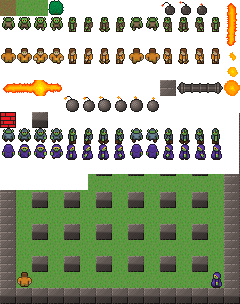
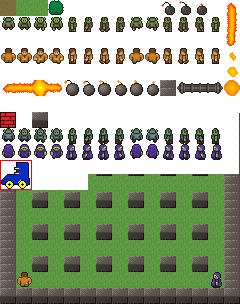
moved input logic into input handler. moved bombs in png(cause of edges)

Changed region(s): [[0.2625, 0.2664, 0.6708, 0.3849], [0.0, 0.5033, 0.1458, 0.6513]]

diff --git a/src/javascript/inputhandler.js b/src/javascript/inputhandler.js
@@ -1,11 +1,21 @@
 /* this file contains all the logic for the user controls */
 
+
+var KEY = { W: 87, A: 65, S: 83, D: 68, B: 66, Q: 81, SPACE: 32, RIGHT: 39, UP: 38, LEFT: 37, DOWN: 40, NONE: -1 };
+var currently_pressed = []; //keeps track of all relevant keys that are currently pressed
+var bombKeyPressed = false; 
+
+
 playerControls = [
     {up: 1, down: 2, left: 3, right: 4, bomb: 5},
     {up: 6, down: 7, left: 8, right: 9, bomb: 10},
     {up: 1, down: 12, left: 13, right: 14, bomb: 15},
     {up: 1, down: 17, left: 18, right: 19, bomb: 20}
 ];
+
+function playerKeyPress(event) {
+
+}
 
 function playerKeyDown(event) {
 	var key = event.keyCode ? event.keyCode : event.which;

diff --git a/src/javascript/bomberman.js b/src/javascript/bomberman.js
@@ -8,9 +8,6 @@ var boardHeight = 13; // how many tiles is the gameboard high?
 var tileSize = 32; // how big is one tile? (width and height)
 var score = 0;
 var audioLayBomb, audioBombExplode, audioBackground, audioDeath, audioGameOver;
-var KEY = { W: 87, A: 65, S: 83, D: 68, B: 66, Q: 81, SPACE: 32, RIGHT: 39, UP: 38, LEFT: 37, DOWN: 40, NONE: -1 };
-var currently_pressed = []; //keeps track of all relevant keys that are currently pressed
-var bombKeyPressed = false;
 var DIRECTION = { UP: 'UP', DOWN: 'DOWN', LEFT: 'LEFT', RIGHT: 'RIGHT' };
 
 var board; // board: saves the information about the current gameboard

diff --git a/src/javascript/player.js b/src/javascript/player.js
@@ -104,7 +104,7 @@ class Bomb {
 
         this.animation = [];
         for (let i = 4; i < 10; i++) {
-            this.animation.push(new AnimationFrame(i * 16, 6 * 16, 16, 16))
+            this.animation.push(new AnimationFrame(i * 16, 5 * 16, 16, 16))
         }
 
         for (let i = 0; i < 3; i++) {
